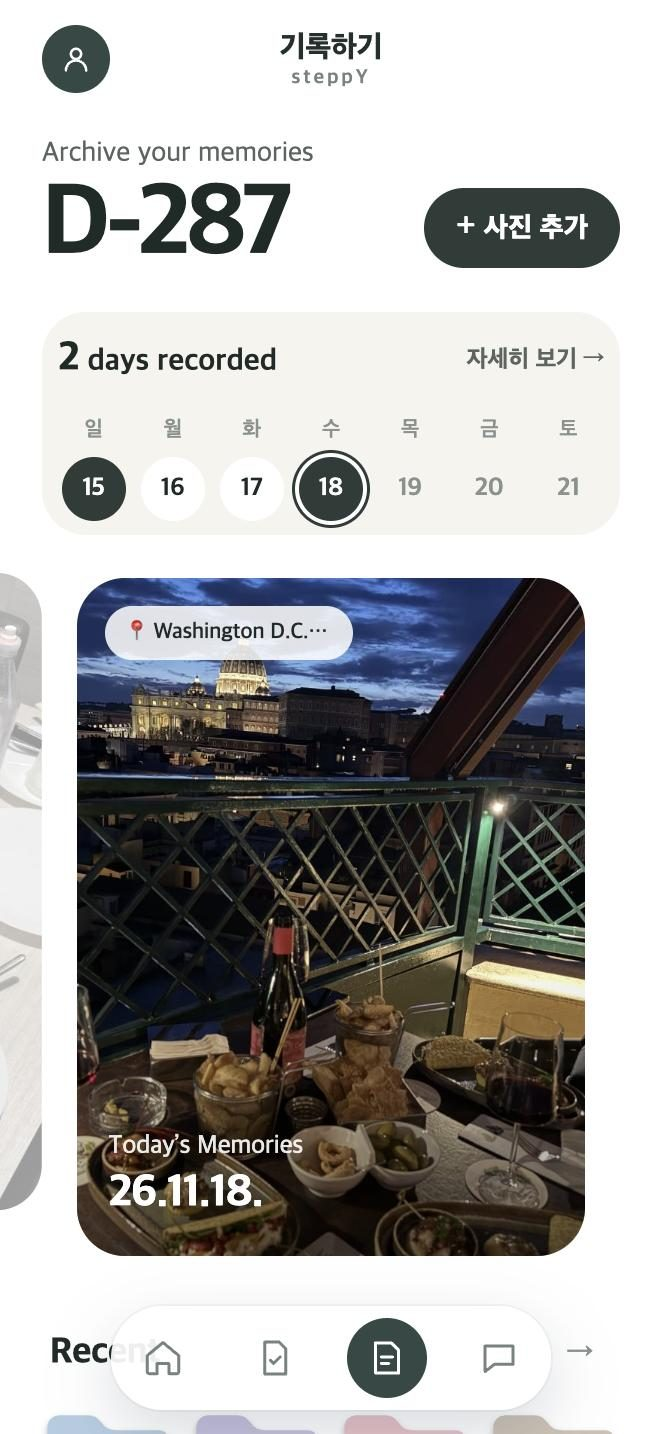
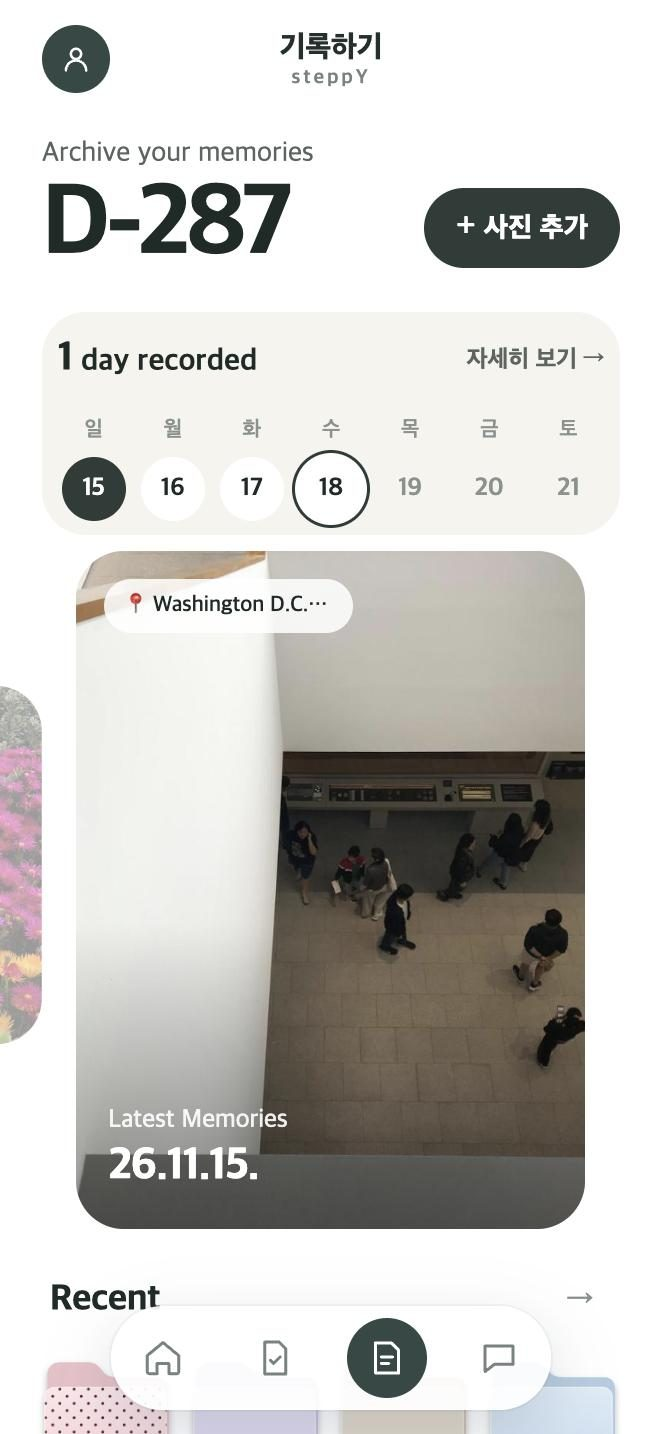
fix(onboarding): 아래 버튼 영역 빈 곳에서도 스크롤되게(3·4단계), 기록하기 첫 캡처는 예전 것으로

diff --git a/css/pages/intro.css b/css/pages/intro.css
@@ -730,6 +730,10 @@ body[data-page="intro"]:has(.intro--pager) { height: 100dvh; overflow: hidden; }
   scroll-snap-stop: always;
   overflow-y: auto;
   overflow-x: hidden;
+  /* 휴대폰에서 세로로 미는 손가락을 가로 넘기기(바깥 트랙)가 가져가지 않게 — 두 방향 다 허용하고, 끝에 닿아도 바깥으로 안 넘긴다 */
+  touch-action: pan-x pan-y;
+  overscroll-behavior-y: contain;
+  -webkit-overflow-scrolling: touch;
   /* 아래 고정 막대(점·버튼)에 가리지 않게 */
   padding-bottom: 168px;
   scrollbar-width: none;
@@ -828,7 +832,10 @@ body[data-page="intro"]:has(.intro--pager) { height: 100dvh; overflow: hidden; }
   z-index: 20;
   padding: var(--space-3) var(--space-4) calc(env(safe-area-inset-bottom, 0px) + var(--space-3));
   background: linear-gradient(180deg, rgba(255,255,255,0) 0%, #fff 22%);
+  /* 막대가 화면 아래 1/4을 덮는다 — 버튼 말고 빈 곳(흐린 띠·여백)을 밀면 뒤의 장이 스크롤되게 터치를 통과시킨다 */
+  pointer-events: none;
 }
+.ob-bar .ob-dots, .ob-bar .ob-actions, .ob-bar .swipe-start, .ob-bar .ob-final { pointer-events: auto; }
 .ob-dots { display: flex; justify-content: center; gap: 6px; margin-bottom: var(--space-3); }
 .ob-dots span {
   width: 6px; height: 6px;
